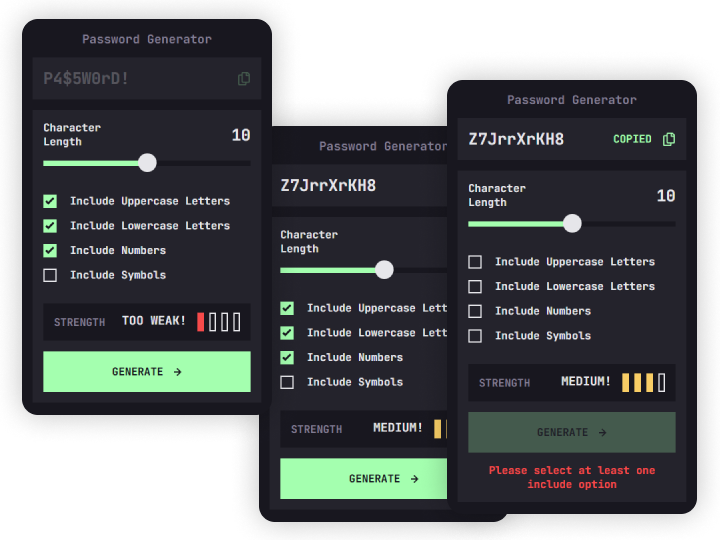
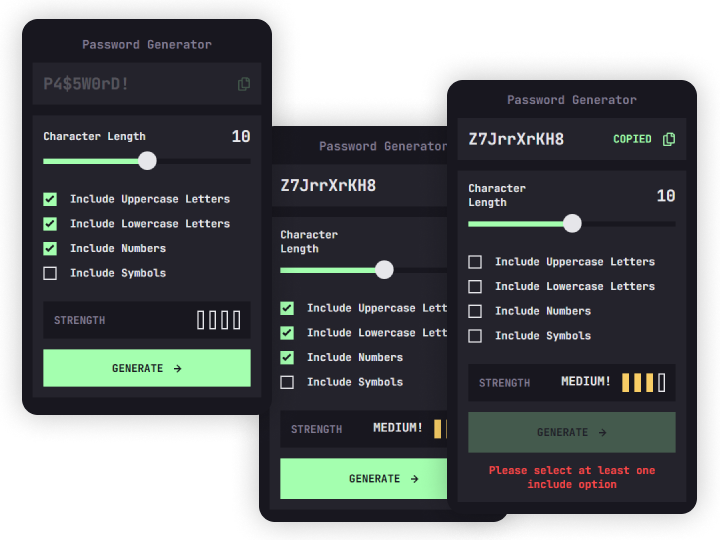
style: improve slider appearance, readjust dimensions

diff --git a/css/styles.css b/css/styles.css
@@ -115,7 +115,7 @@ svg {
 
 .button {
   width: 100%;
-  padding: 1.125rem;
+  padding: 1rem;
   background: var(--color-green);
   border: 0.125rem solid transparent;
   color: var(--color-black);
@@ -199,39 +199,25 @@ svg {
 
   &::-webkit-slider-runnable-track {
     height: 0.5rem;
-    background: var(--color-black);
-    background-image: linear-gradient(var(--color-green), var(--color-green));
-    background-size: var(--value-percentage) 100%;
-    background-repeat: no-repeat;
+    background: linear-gradient(
+      to right,
+      var(--color-green) var(--progress, 0%),
+      var(--color-black) var(--progress, 0%)
+    );
   }
 
   &::-moz-range-track {
     height: 0.5rem;
-    background: var(--color-black);
-  }
-
-  &::-moz-range-progress {
-    height: 0.5rem;
-    background: var(--color-green);
-  }
-
-  &::-ms-track {
-    height: 0.5rem;
-    background: transparent;
-    border-color: transparent;
-    color: transparent;
-  }
-
-  &::-ms-fill-lower {
-    background: var(--color-green);
-  }
-
-  &::-ms-fill-upper {
-    background: var(--color-black);
+    background: linear-gradient(
+      to right,
+      var(--color-green) var(--progress, 0%),
+      var(--color-black) var(--progress, 0%)
+    );
   }
 
   &::-webkit-slider-thumb {
     -webkit-appearance: none;
+    appearance: none;
     margin-top: -11px;
     width: 1.75rem;
     height: 1.75rem;
@@ -248,6 +234,7 @@ svg {
   }
 
   &::-moz-range-thumb {
+    appearance: none;
     width: 1.75rem;
     height: 1.75rem;
     border: 0.125rem solid transparent;
@@ -256,23 +243,6 @@ svg {
   }
 
   &::-moz-range-thumb:hover {
-    @media (hover: hover) {
-      background-color: var(--color-black);
-      border-color: var(--color-green);
-    }
-  }
-
-  &::-ms-thumb {
-    margin-top: 1px;
-    width: 1.75rem;
-    height: 1.75rem;
-    border: 0.125rem solid transparent;
-    border-radius: 999px;
-    background: var(--color-white);
-    cursor: pointer;
-  }
-
-  &::-ms-thumb:hover {
     @media (hover: hover) {
       background-color: var(--color-black);
       border-color: var(--color-green);
@@ -338,7 +308,7 @@ svg {
 @media (min-width: 768px) {
   .strength-meter {
     margin-bottom: 2rem;
-    padding: 1.25rem 2rem;
+    padding: 1.125rem 2rem;
   }
 
   .button {
@@ -419,7 +389,7 @@ form {
 
 .password-length {
   display: grid;
-  grid-template-columns: 1fr 1fr;
+  grid-template-columns: 1fr auto;
   align-items: center;
   gap: 0.5rem;
   margin-bottom: 2rem;
@@ -454,6 +424,7 @@ form {
   justify-content: center;
   align-items: center;
   gap: 1rem;
+  padding-bottom: calc(1rem - 1px);
 
   svg {
     width: 0.75rem;
@@ -502,5 +473,6 @@ form {
 
   .password-generate {
     gap: 1.5rem;
+    padding: calc(1.125rem + 1px) 1.5rem;
   }
 }

diff --git a/js/StrengthMeter.js b/js/StrengthMeter.js
@@ -25,6 +25,8 @@ const strengthClass = {
  */
 export function StrengthMeter({ password }) {
   const strength = useMemo(() => {
+    if (!password) return -1;
+
     let score = 0;
     if (password.length >= 10) score++;
     if (/[A-Z]/.test(password)) score++;
@@ -50,9 +52,12 @@ export function StrengthMeter({ password }) {
         aria-live="assertive"
         aria-atomic="true"
       >
-        <span key=${announcementKey} class="subheading text">
-          ${strengthLabels[strength]}
-        </span>
+        ${strength >= 0 &&
+        html`
+          <span key=${announcementKey} class="subheading text">
+            ${strengthLabels[strength]}
+          </span>
+        `}
         <div class="bars ${strengthClass[strength]}">
           ${Array.from(
             { length: 4 },

diff --git a/js/Slider.js b/js/Slider.js
@@ -25,10 +25,8 @@ export const Slider = (props) => {
    */
   const inputRef = useRef();
 
-  // Add filled bar for Chromium-based browsers
+  // Add filled bar
   useEffect(() => {
-    if (!window.chrome) return;
-
     const input = inputRef.current;
     if (!input) return;
 
@@ -40,7 +38,7 @@ export const Slider = (props) => {
       const max = parseIntWithDefault(input.max, 100);
       const value = parseIntWithDefault(input.value, 50);
       input.style.setProperty(
-        "--value-percentage",
+        "--progress",
         `${((value - min) / (max - min)) * 100}%`,
       );
     }
